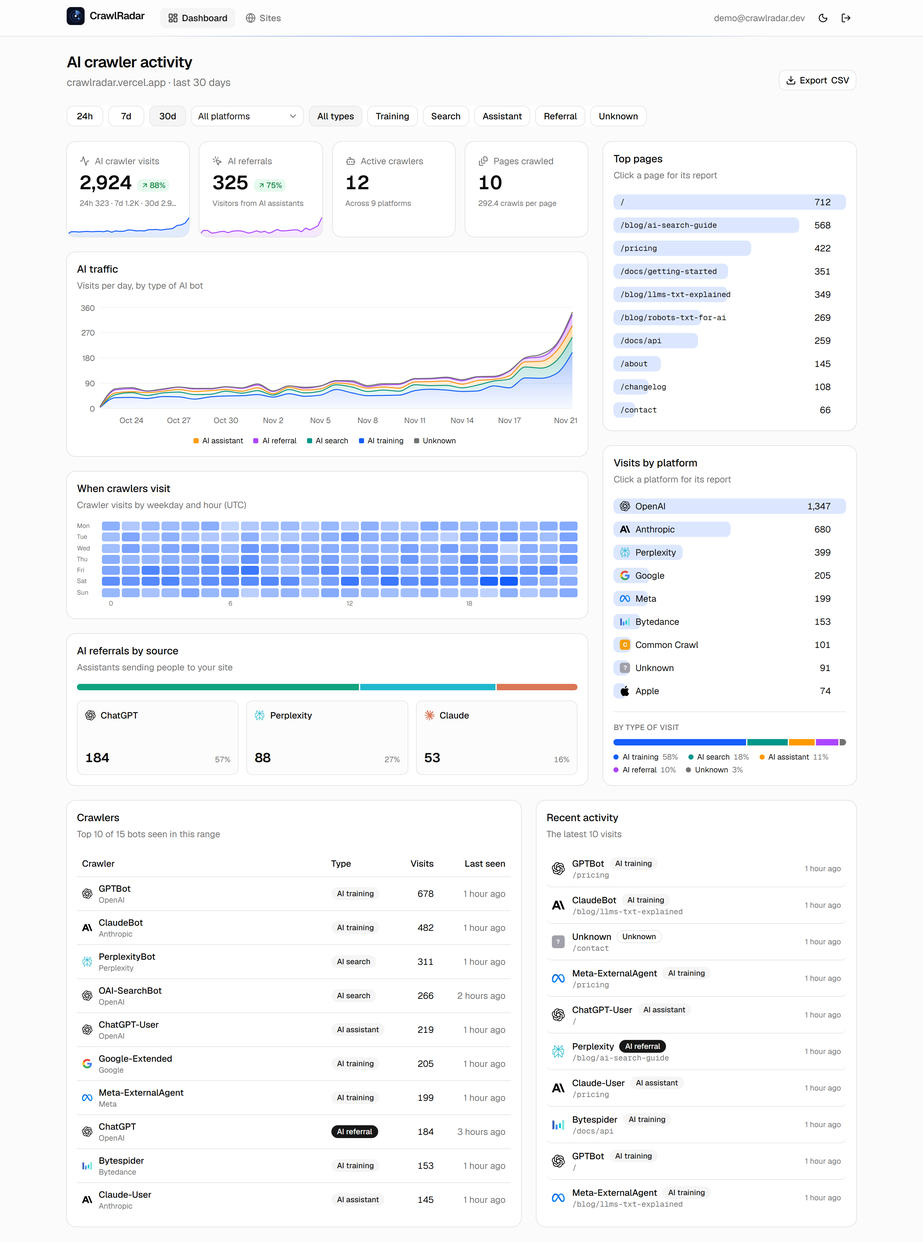
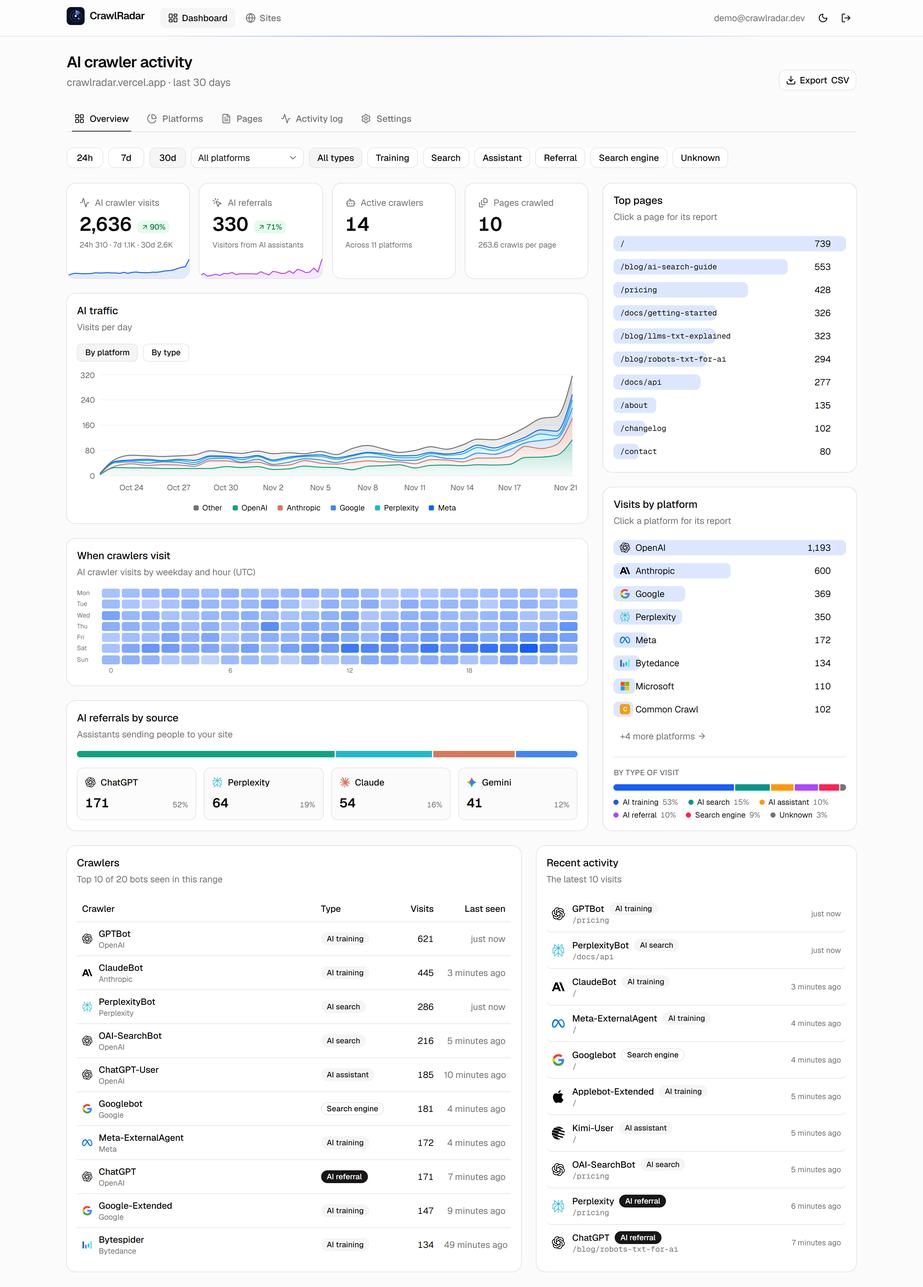
docs: requirements coverage map, new screenshots and README
docs/PRD.md maps every user story, functional requirement, view, acceptance
criterion, phase and risk to the code and its tests. README covers
onboarding, the five views, detection, head-or-footer, Storybook and the
quality gates.

diff --git a/README.md b/README.md
@@ -27,21 +27,27 @@ Regular analytics tools filter bots out. But AI platforms now read the web aroun
 
 ## Features
 
-- **One-line install.** A single async `<script>` tag served from your own CrawlRadar domain. The tracker is about 400 bytes.
-- **Every AI crawler, classified.** Known bots are grouped by platform (OpenAI, Anthropic, Google, Perplexity, Meta, Apple, Amazon...) and by purpose: training, search or assistant. Unknown self-declared bots are flagged as `Unknown`.
-- **AI referrals.** Count the people who click through from ChatGPT, Perplexity, Claude, Gemini and Copilot.
-- **A dashboard worth opening:**
-  - crawler visits and referrals with change versus the previous period
-  - AI traffic stacked by type
-  - visits by platform
-  - referral sources
-  - top pages
-  - a weekday × hour heatmap
-  - a crawler table with last-seen times
-  - a recent activity feed
-- **Filters and export.** 24h / 7d / 30d ranges, platform and bot-type filters kept in the URL, and CSV export of the current view or a site's full history.
-- **Polished details.** Animated empty states that guide installation and update live when the first hit lands, loading skeletons, light and dark mode, and a layout built for phones.
+- **One-line install.** A single async `<script>` tag served from your own CrawlRadar domain. The tracker is about 400 bytes and never blocks the page. An optional `<noscript>` pixel also counts crawlers that don't run JavaScript.
+- **Guided onboarding.** Five locked steps (account, website, install, verify, explore) with a progress tracker and install tips for WordPress, Shopify, Webflow and frameworks. The dashboard unlocks once the snippet is seen working.
+- **Every AI crawler, classified.** 60+ AI bots grouped by platform and purpose (training, search, assistant), cross-checked with the community [ai.robots.txt](https://github.com/ai-robots-txt/ai.robots.txt) list. That includes Chinese AI platforms: DeepSeek, Qwen and Tongyi (Alibaba), Kimi (Moonshot AI), Doubao (Bytedance), ERNIE (Baidu), Hunyuan (Tencent) and ChatGLM (Zhipu AI). Any other bot is caught by [isbot](https://github.com/omrilotan/isbot) and flagged `Unknown`, named from its user agent.
+- **Search engines alongside.** Googlebot, Bingbot, Baiduspider, YandexBot and others are recorded as their own type, and kept out of the AI totals.
+- **AI referrals.** Count the people who click through from ChatGPT, Perplexity, Claude, Gemini, Copilot, Grok, DeepSeek, Kimi, Qwen and more.
+- **Five views, as in the [requirements](docs/PRD.md):**
+  - **Overview:** visits and referrals against the previous period, traffic by platform or by type, a weekday × hour heatmap, top pages, platforms, crawlers and the latest visits
+  - **Platforms:** share of visits, traffic per platform over time, and every platform with its crawlers
+  - **Pages:** every crawled page ranked and searchable; any page opens its own report
+  - **Activity log:** every visit with its user agent and referrer, filterable and paginated
+  - **Settings:** the snippet, CSV export and the site itself
+- **Filters and export.** 24h / 7d / 30d ranges, platform and bot-type filters kept in the URL, and CSV export (written with [PapaParse](https://www.papaparse.com/)) of the current view or a site's full history.
+- **Polished details.** Animated empty states, loading states, interactive sparklines, light and dark mode, and a layout built for phones.
 - **Private and multi-tenant.** Supabase Auth plus Postgres row-level security, so users only ever see their own data. IPs are stored as a daily-salted hash, never raw.
+
+<table>
+  <tr>
+    <td><img alt="Platforms view: share of visits, traffic per platform and a row per platform" src="docs/images/platforms-dark.png"></td>
+    <td><img alt="Onboarding, step 3 of 5: install the snippet" src="docs/images/onboarding-dark.png"></td>
+  </tr>
+</table>
 
 ## How it works
 
@@ -54,7 +60,7 @@ flowchart TB
 ```
 
 1. **Collect.** Your site loads `/t.js` from your CrawlRadar domain. It sends the page URL and referrer to `/api/collect` on the same domain, so customers never see a backend URL.
-2. **Classify.** `/api/collect` forwards the visit, with the visitor's real User-Agent and IP, to the `track` Edge Function. The function classifies it from the request header (page script can't fake it) and stores only AI crawler hits and AI referrals. Ordinary human visits are dropped.
+2. **Classify.** `/api/collect` forwards the visit, with the visitor's real User-Agent and IP, to the `track` Edge Function. The function classifies it from the request header (page script can't fake it) and stores only bot hits and AI referrals. Ordinary human visits are dropped; the first one from the site's own pages only marks the snippet as installed, which completes onboarding.
 3. **Report.** The dashboard reads Postgres directly through supabase-js. RLS scopes every query to the signed-in user, and one `crawler_stats()` SQL function returns every chart's data in a single round trip. There's no separate API server.
 
 ## Quick start
@@ -147,7 +153,7 @@ Local URLs:
 
 ## Install the tracker on your site
 
-On **Sites**, click **Add website**, then paste the one tag it gives you into the `<head>` of every page. Each site has its own page with the snippet, its status, and a separate place to remove it.
+Sign up and onboarding walks you through it: add your domain, paste the one tag it gives you into the `<head>` of every page, and open your site once. The dashboard unlocks as soon as the snippet reports in. Add more sites later from **Sites**; each one's snippet, CSV export and removal live in the dashboard's **Settings** view.
 
 ```html
 <script async src="https://<your-crawlradar>/t.js?s=<site-id>"></script>
@@ -155,7 +161,7 @@ On **Sites**, click **Add website**, then paste the one tag it gives you into th
 
 <picture>
   <source media="(prefers-color-scheme: dark)" srcset="docs/images/install-dark.png">
-  <img alt="A site's page: the one-line snippet, install steps, details and removal" src="docs/images/install-light.png" width="720">
+  <img alt="Settings: the one-line snippet, the no-JavaScript pixel, CSV export, details and removal" src="docs/images/install-light.png" width="720">
 </picture>
 
 The site shows **"Last hit ..."** with a live dot as soon as the first event lands. Until then the dashboard listens with a live empty state, then switches to charts on its own.
@@ -163,37 +169,54 @@ The site shows **"Last hit ..."** with a live dot as soon as the first event lan
 <details>
 <summary>Optional: count crawlers that don't run JavaScript</summary>
 
-Most AI crawlers fetch HTML without running scripts. If you can add a second tag, put this right after `<body>`:
+Some crawlers fetch images but never run scripts. Settings has a **Pixel only** tab with a second tag for them:
 
 ```html
-<noscript><img src="https://<your-crawlradar>/api/collect?sid=<site-id>&t=img" alt="" width="1" height="1" style="position:absolute;left:-9999px"></noscript>
+<noscript
+  ><img
+    src="https://<your-crawlradar>/api/collect?t=img&sid=<site-id>"
+    alt=""
+    width="1"
+    height="1"
+    referrerpolicy="no-referrer-when-downgrade"
+/></noscript>
 ```
 
-Browsers send only your domain as the referrer for this image, so these hits may be recorded without a page path. Server-side tracking, which sees every request, is on the roadmap.
+Without a script, the page comes from the Referer header, which the `referrerpolicy` asks the browser to send in full. Server-side tracking, which sees every request, is on the roadmap.
+
+**Head or footer?** Both work, and `async` means neither blocks rendering. The `<head>` is better: it starts earlier, so it also catches crawlers that leave before the page finishes loading.
 
 </details>
 
 ## Security and privacy
 
-- **Accounts are isolated by the database itself.** Every query runs under Postgres row-level security as the signed-in user. Two people can add the same domain: each gets a separate site with a random ID, and neither can read, change or delete the other's data. [`security.test.sql`](supabase/tests/database/security.test.sql) proves this with 16 checks, and the end-to-end suite repeats it through the real app.
+- **Accounts are isolated by the database itself.** Every query runs under Postgres row-level security as the signed-in user. Two people can add the same domain: each gets a separate site with a random ID, and neither can read, change or delete the other's data. [`security.test.sql`](supabase/tests/database/security.test.sql) proves this with 21 checks, and the end-to-end suite repeats it through the real app.
 - **A copied snippet can't inject data.** Site IDs are visible in the snippet, so the tracking function only counts a hit when the page belongs to the site's domain (or a subdomain). Hits from anywhere else are dropped.
-- **Nothing personal is stored.** Only AI crawler hits and AI referrals are kept, IPs are stored as a SHA-256 hash with a salt that rotates daily, and the service-role key never leaves the Edge Function.
+- **Nothing personal is stored.** Only bot hits and AI referrals are kept, IPs are stored as a SHA-256 hash with a salt that rotates daily, and the service-role key never leaves the Edge Function.
 - **Shared links stay private.** A link to a private page sends signed-out visitors (and link-preview bots) to sign in. The preview describes the destination, like "AI crawler dashboard", without showing any data.
+- **The install check is safe.** Onboarding can fetch a site's home page to look for the tag; it only fetches public hostnames (no localhost, private names or IP addresses), with a timeout and a size cap.
 - **Site previews** on the Sites page come from public services (a screenshot from [Microlink](https://microlink.io) and a favicon from Google), which receive only the site's public domain name.
 
 ## Testing
 
-| Suite                     | Command                     | What it covers                                                                                                                                                                                      |
-| ------------------------- | --------------------------- | --------------------------------------------------------------------------------------------------------------------------------------------------------------------------------------------------- |
-| Suite                     | Command                     | What it covers                                                                                                                                                                                      |
-| ---                       | ---                         | ---                                                                                                                                                                                                 |
-| Lint and format (Biome)   | `pnpm lint` / `pnpm format` | Formatting, import order and lint rules across the whole repo                                                                                                                                       |
-| Unit (Vitest)             | `pnpm test`                 | Bot and referrer classifier, stats engine, CSV writer, filters, demo data, site activity, collect endpoint, Supabase client wiring                                                                  |
-| Coverage                  | `pnpm test:coverage`        | 100% of statements, branches, functions and lines in that code. CI fails below 100%                                                                                                                 |
-| End-to-end (Playwright)   | `pnpm test:e2e`             | Home page demo, sign-in redirects, filters, page and platform reports, CSV export, site switching, the full install journey, account isolation, snippet spoofing, social previews and phone layouts |
-| Database security (pgTAP) | `pnpm db:test`              | Row-level security between accounts: two users with the same domain, cross-account reads, writes, deletes and anonymous access                                                                      |
+| Suite                     | Command                     | What it covers                                                                                                                                                                                                                              |
+| ------------------------- | --------------------------- | ------------------------------------------------------------------------------------------------------------------------------------------------------------------------------------------------------------------------------------------- |
+| Lint and format           | `pnpm lint` / `pnpm format` | Biome formatting, import order and lint rules, cognitive complexity of at most 10 per function, functions of at most 120 lines, and no hand-written source file over 200 lines                                                              |
+| Unit (Vitest)             | `pnpm test`                 | Bot, search-engine and referrer classifier (every listed bot), stats engine, pages and platform tables, CSV writer, install check, filters, demo data, collect endpoint                                                                     |
+| Coverage                  | `pnpm test:coverage`        | 100% of statements, branches, functions and lines in that code. CI fails below 100%                                                                                                                                                         |
+| End-to-end (Playwright)   | `pnpm test:e2e`             | Onboarding (locked app, five steps, resume), every dashboard view, filters, reports, pagination, CSV export, site switching and removal, account isolation, snippet spoofing, the home page and its demo, social previews and phone layouts |
+| Database security (pgTAP) | `pnpm db:test`              | Row-level security between accounts: two users with the same domain, cross-account reads, writes, renames, deletes and anonymous access                                                                                                     |
 
 End-to-end tests run against a production build and the local Supabase stack. Run `pnpm db:start` first.
+
+### Storybook
+
+Every app component (dashboard, onboarding, site settings, home sections) on the home page demo data, with a light/dark toggle in the toolbar. CI checks that it builds.
+
+```bash
+pnpm --filter @crawlradar/web storybook        # dev server on http://localhost:6006
+pnpm --filter @crawlradar/web build-storybook  # static build in apps/web/storybook-static
+```
 
 ## Deploy
 
@@ -226,25 +249,31 @@ The service-role key lives only inside the Edge Function. The dashboard never ne
 ```
 apps/web/                  Next.js 16 app (App Router, Server Components, Server Actions)
   app/page.tsx             home page with the interactive demo dashboard
-  app/(app)/               signed-in pages: /dashboard, /sites, /sites/[id], /export (CSV)
+  app/onboarding/          the five-step onboarding (the app is locked until it is done)
+  app/(app)/dashboard/     Overview, Platforms, Pages, Activity log and Settings views
+  app/(app)/sites/         all sites; /export streams CSV
   app/api/collect/         public collection endpoint, forwards to the track function
-  components/dashboard/    dashboard view, shared by the live app and the demo
-  lib/stats.ts             stats engine (TypeScript twin of crawler_stats(), used by the demo)
+  components/dashboard/    one small component per panel, shared by the live app and the demo
+  components/onboarding/   the stepper and each step
+  components/home/         home page sections
+  lib/stats/               stats engine (TypeScript twin of crawler_stats(), used by the demo)
   public/t.js              the tracker customers embed
+  .storybook/              Storybook for the app's components (*.stories.tsx next to each one)
 packages/ui/               @crawlradar/ui: shadcn/ui design system
 supabase/
-  migrations/              schema, RLS policies, crawler_stats()
+  migrations/              schema, RLS policies, crawler_stats(), crawler_pages()
   functions/track/         tracking function (Deno)
-  functions/_shared/       bot and referrer classifier
+  functions/_shared/       classifier: AI bots, search engines, AI referrers, isbot fallback
   seed.sql                 local demo user and 60 days of data
 e2e/                       Playwright tests
 scripts/simulate-bots.ts   send test crawler hits
+scripts/check-file-size.mjs  keeps every hand-written source file under 200 lines
 docs/PRD.md                product requirements and implementation notes
 ```
 
 ## Adding a bot
 
-Add one line to `BOT_PATTERNS` in [`supabase/functions/_shared/bots.ts`](supabase/functions/_shared/bots.ts), add a case in `bots.test.ts`, and run `pnpm test`. [Known Agents](https://knownagents.com/agents) keeps a good list of new agents. Pull requests are welcome.
+Add one line to [`ai-bots.ts`](supabase/functions/_shared/ai-bots.ts) (or [`search-engines.ts`](supabase/functions/_shared/search-engines.ts)): the user-agent token, the platform and the type. `pnpm test` checks that every entry classifies to itself. [ai.robots.txt](https://github.com/ai-robots-txt/ai.robots.txt) and [Known Agents](https://knownagents.com/agents) track new agents. Pull requests are welcome.
 
 ## Design decisions
 
@@ -253,7 +282,9 @@ Add one line to `BOT_PATTERNS` in [`supabase/functions/_shared/bots.ts`](supabas
 | One `<script src>` tag on your own domain             | Shortest install, a cacheable static tracker, and customers only see your domain                           | Inline loader pointing at `*.supabase.co` (longer, exposes the backend) |
 | `/api/collect` forwards to the Edge Function          | Ingest logic lives in one place, and the web host needs no service-role key                                | Inserting from a Next.js route (secret key in the web host)             |
 | User-Agent read on the server, beacon via a GET pixel | No CORS preflight, and page script can't fake the UA                                                       | `fetch`/`sendBeacon` POST with a JS-reported UA                         |
-| Only AI hits and referrals are stored                 | Keeps the free tier small and avoids storing personal browsing data                                        | Store everything and filter at query time                               |
+| Only bot hits and referrals are stored                | Keeps the free tier small and avoids storing personal browsing data                                        | Store everything and filter at query time                               |
+| A curated AI list, then `isbot` for any other bot     | Exact names, platforms and purposes for AI bots; a maintained library catches the rest                     | Only a generic bot/crawl/spider regex                                   |
+| Onboarding unlocks on the first real hit              | Proves the install works end to end, with no test data written to the account                              | A send-test-event button (fake data in the dashboard)                   |
 | Daily-salted SHA-256 IP hash                          | Groups visits within a day without storing an IP or tracking across days                                   | Raw IP; a static hash (reversible by brute force over IPv4)             |
 | No custom API: supabase-js, RLS and one SQL function  | Less code to run and secure; authorisation enforced in the database                                        | A separate API server; client-side aggregation (breaks past 1,000 rows) |
 | Stats engine mirrored in TypeScript                   | The home page demo runs the real dashboard on mock data, fully client-side, and the logic is unit-testable | A static screenshot                                                     |

diff --git a/docs/PRD.md b/docs/PRD.md
@@ -147,25 +147,79 @@ timestamp,page_url,bot_name,platform,bot_type,user_agent
 
 ## Implementation notes
 
-How the requirements map to the code, and where the implementation goes further or deliberately differs.
+Every requirement above, where it lives in the code, and how it is tested.
+Tests: **unit** = Vitest (100% coverage of the logic), **e2e** = Playwright, **db** = pgTAP.
 
-| Requirement    | Where                                                                                                     | Notes                                                                                                                                                                                 |
-| -------------- | --------------------------------------------------------------------------------------------------------- | ------------------------------------------------------------------------------------------------------------------------------------------------------------------------------------- |
-| FR-1.1 to 1.4  | [`apps/web/public/t.js`](../apps/web/public/t.js), [`/api/collect`](../apps/web/app/api/collect/route.ts) | About 400 bytes, `async`. Served from the dashboard's own domain, so the install is one line.                                                                                         |
-| FR-1.2, FR-2.x | [`supabase/functions/_shared/bots.ts`](../supabase/functions/_shared/bots.ts)                             | The user agent is read from the request header on the server, never from page script. The list is extended with Claude-User, Claude-SearchBot, Perplexity-User, Amazonbot and others. |
-| FR-1.3         | [`supabase/functions/track`](../supabase/functions/track/index.ts)                                        | IPs are stored as a SHA-256 hash with a salt that rotates daily.                                                                                                                      |
-| FR-3.x         | [`crawler_stats()`](../supabase/migrations), [`components/dashboard`](../apps/web/components/dashboard)   | One SQL function returns every chart's data in one round trip, under RLS.                                                                                                             |
-| FR-4.1         | [`/export`](../apps/web/app/(app)/export/route.ts)                                                        | Pages through all rows (past the 1,000-row API limit) and escapes spreadsheet formulas.                                                                                               |
-| AC-1 to AC-6   | [`e2e/`](../e2e), unit tests                                                                              | Covered by the Playwright suite and unit tests.                                                                                                                                       |
+### User stories
 
-**Deliberate differences**
+| ID   | How CrawlRadar answers it                                                                                                                                                                                                                     | Tested                                           |
+| ---- | --------------------------------------------------------------------------------------------------------------------------------------------------------------------------------------------------------------------------------------------- | ------------------------------------------------ |
+| US-1 | **Platforms** view: share donut, traffic per platform over time, a row per platform with its crawlers. Brand logos for 40+ platforms, including DeepSeek, Alibaba (Qwen), Moonshot AI (Kimi), Baidu, Tencent, Zhipu AI and Bytedance (Doubao) | e2e `tracking`, `dashboard`                      |
+| US-2 | **Pages** view: every crawled page ranked by visits, with AI crawls, referrals, crawlers, top platform, last crawl and a search box. Any page opens its own report                                                                            | e2e `dashboard`, `tracking`; unit `computePages` |
+| US-3 | **Overview**: totals for 24h / 7d / 30d with change against the previous period, traffic over time by platform or by type, a weekday-by-hour heatmap                                                                                          | unit `computeStats`; e2e `dashboard`             |
+| US-4 | **Onboarding**: five locked steps (account, website, install, verify, explore) with a progress tracker, install tips per platform and an automatic "it works" check                                                                           | e2e `onboarding`                                 |
+| US-5 | **Export**: CSV of every field, for the current view or all data, from every view and from Settings                                                                                                                                           | e2e `dashboard`; unit `csv`                      |
+
+### Functional requirements
+
+| ID     | Where                                                                     | Notes                                                                                                                                                                                |
+| ------ | ------------------------------------------------------------------------- | ------------------------------------------------------------------------------------------------------------------------------------------------------------------------------------ |
+| FR-1.1 | [`public/t.js`](../apps/web/public/t.js)                                  | About 400 bytes (limit 5 KB)                                                                                                                                                         |
+| FR-1.2 | [`_shared/bots.ts`](../supabase/functions/_shared/bots.ts)                | The user agent is read from the request header on the server, never from page script                                                                                                 |
+| FR-1.3 | [`track/index.ts`](../supabase/functions/track/index.ts)                  | Page URL, path, timestamp and a SHA-256 IP hash with a salt that rotates daily                                                                                                       |
+| FR-1.4 | [`lib/snippet.ts`](../apps/web/lib/snippet.ts)                            | `<script async>`; the beacon is an image request, so it never blocks the page                                                                                                        |
+| FR-2.1 | [`_shared/ai-bots.ts`](../supabase/functions/_shared/ai-bots.ts)          | 60+ AI crawlers, cross-checked with the community [ai.robots.txt](https://github.com/ai-robots-txt/ai.robots.txt) list. Case-insensitive substring matching survives version changes |
+| FR-2.2 | same                                                                      | Platform per bot (the company); assistants are named separately for referrals                                                                                                        |
+| FR-2.3 | [`bot-types.ts`](../supabase/functions/_shared/bot-types.ts)              | Training, search, assistant, plus referral and search engine                                                                                                                         |
+| FR-2.4 | [`bots.ts`](../supabase/functions/_shared/bots.ts)                        | Any other bot, detected with the maintained [isbot](https://github.com/omrilotan/isbot) pattern list, is stored as platform "Unknown", named from its user agent                     |
+| FR-3.1 | [`stat-row.tsx`](../apps/web/components/dashboard/stat-row.tsx)           | Fixed 24h / 7d / 30d totals on the first card, independent of the selected range                                                                                                     |
+| FR-3.2 | Overview and Platforms views                                              | Bar list, donut and stacked area charts                                                                                                                                              |
+| FR-3.3 | Overview (top 10) and Pages view (all)                                    |                                                                                                                                                                                      |
+| FR-3.4 | [`traffic-chart.tsx`](../apps/web/components/dashboard/traffic-chart.tsx) | Hourly for 24h, daily otherwise; split by platform or by type                                                                                                                        |
+| FR-3.5 | [`filters.tsx`](../apps/web/components/dashboard/filters.tsx)             | Range, platform and type, kept in the URL; also page and platform reports                                                                                                            |
+| FR-3.6 | Overview (latest 10) and **Activity log** view                            | The log is paginated (50 per page), filterable, and shows user agent and referrer                                                                                                    |
+| FR-4.1 | [`/export`](<../apps/web/app/(app)/export/route.ts>)                      | Written with [PapaParse](https://www.papaparse.com/); pages past the 1,000-row API limit; neutralises spreadsheet formulas                                                           |
+
+### Views (7.1) and install flow (7.2)
+
+| View                                 | Route                  |
+| ------------------------------------ | ---------------------- |
+| Overview                             | `/dashboard`           |
+| Platforms                            | `/dashboard/platforms` |
+| Pages                                | `/dashboard/pages`     |
+| Activity log                         | `/dashboard/activity`  |
+| Settings (snippet, CSV export, site) | `/dashboard/settings`  |
+
+The install flow is the onboarding at `/onboarding`: sign up, add a domain, copy the generated snippet (with the site ID), paste it into the `<head>`, then the first visit to the site unlocks the dashboard. The check also looks for the tag in the site's HTML.
+
+### Acceptance criteria
+
+| ID   | Proof                                                                                               |
+| ---- | --------------------------------------------------------------------------------------------------- |
+| AC-1 | unit `bots.test.ts` (GPTBot, ClaudeBot, PerplexityBot, Google-Extended, and every other listed bot) |
+| AC-2 | e2e `dashboard` and `tracking` (visits by platform, Platforms view)                                 |
+| AC-3 | e2e `dashboard` (Pages view), unit `computePages`                                                   |
+| AC-4 | e2e `dashboard` ("filters are kept in the URL")                                                     |
+| AC-5 | e2e `dashboard` (CSV header and file names)                                                         |
+| AC-6 | e2e `onboarding`: sign-up to working dashboard in a few clicks                                      |
+
+### Phases
+
+- **Phase 1:** Supabase project, schema, RLS, the `track` Edge Function, classification, the tracking snippet, end-to-end tests. All done.
+- **Phase 2:** Next.js with Supabase Auth, layout, overview stats, platform chart, top pages, activity log with filters, CSV export, tests. All done.
+
+### Risks
+
+| Risk                        | What was done                                                                                                                              |
+| --------------------------- | ------------------------------------------------------------------------------------------------------------------------------------------ |
+| Bots may not run JavaScript | An optional `<noscript>` pixel counts crawlers that fetch images; the README documents the rest and server-side tracking is on the roadmap |
+| Signatures change           | Partial, case-insensitive matching, a list checked against ai.robots.txt, and isbot for anything new                                       |
+| High volume                 | Only bot and referral hits are stored; indexes on `(site_id, timestamp)`; the upgrade path is in the README                                |
+
+### Deliberate differences
 
 - **The beacon is a GET image request, not a POST.** It needs no CORS preflight and works the same for the `<noscript>` pixel.
-- **AI referrals were added.** People arriving from ChatGPT, Perplexity, Claude, Gemini or Copilot are tracked as a fifth bot type, `referral`, because they matter as much as crawlers.
-- **The schema was hardened:**
-  - `timestamptz` instead of `timestamp`
-  - `not null` and check constraints
-  - cascading deletes
-  - a `referrer` column
-  - insert and delete RLS policies (the initial design only had select policies, so users couldn't add sites)
+- **AI referrals were added.** People arriving from ChatGPT, Perplexity, Claude, Gemini, DeepSeek, Kimi, Qwen and others are tracked as their own type, `referral`.
+- **Search engines were added.** Googlebot, Bingbot, Baiduspider, YandexBot and others are stored as `search_engine`, shown alongside, and kept out of the "AI crawler" totals.
+- **The schema was hardened:** `timestamptz`, `not null` and check constraints, cascading deletes, a `referrer` column, `sites.installed_at` for onboarding, and insert, delete and column-limited update policies.
 - **`Google-Extended` and `Applebot-Extended` are robots.txt tokens.** Google and Apple crawl with their normal user agents, so these two rarely appear in real traffic. They are still matched (AC-1).
